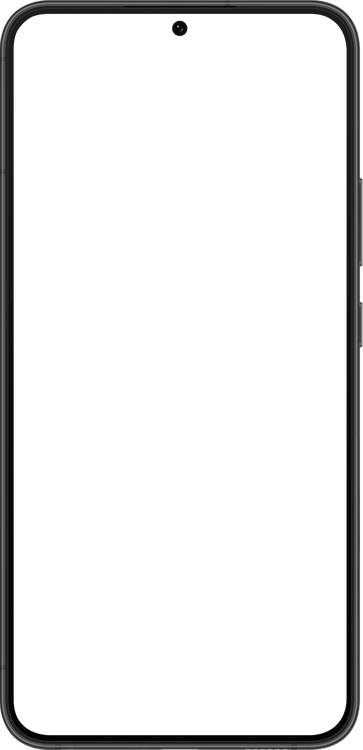
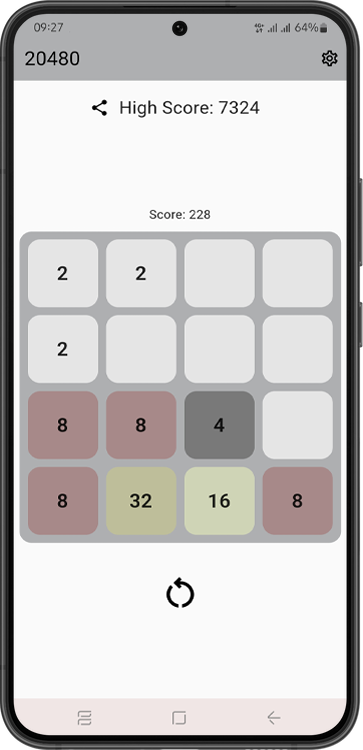
add images and metas

diff --git a/index.html b/index.html
@@ -3,7 +3,54 @@
 		<meta charset="UTF-8" />
 		<meta http-equiv="X-UA-Compatible" content="IE=edge" />
 		<meta name="viewport" content="width=device-width, initial-scale=1.0" />
-		<title>20480</title>
+		<title>Play 20480</title>
+
+		<link rel="canonical" href="https://play20480.rezababakhani.ir" />
+
+		<meta
+			name="description"
+			content="20480 game is a new game based on 2048"
+		/>
+		<meta name="keywords" content="20480,2048,new 2048" />
+
+		<meta property="og:locale" content="en_US" />
+		<meta property="og:site_name" content="play 20480" />
+		<meta property="og:title" content="20480 game" />
+		<meta
+			property="og:description"
+			content="20480 game is a new game based on 2048"
+		/>
+		<meta property="og:url" content="https://play20480.rezababakhani.ir" />
+		<meta name="twitter:site" content="@play20480" />
+		<meta name="twitter:title" content="" />
+		<meta
+			name="twitter:description"
+			content="20480 game is a new game based on 2048"
+		/>
+		<meta name="twitter:image:alt" content="20480 game" />
+		<meta name="DC.title" content="20480 game" />
+		<meta name="DC.subject" content="are played 20480?" />
+		<meta
+			name="DC.description"
+			content=" 20480 game is a new game based on 2048"
+		/>
+		<meta
+			name="DC.identifier"
+			content="https://play20480.rezababakhani.ir"
+		/>
+		<meta name="DC.language" content="fa-IR" />
+
+		<meta
+			property="og:image"
+			content="https://play20480.rezababakhani.ir/images/icon.png"
+		/>
+		<meta property="og:type" content="website" />
+
+		<meta
+			name="twitter:image"
+			content="https://play20480.rezababakhani.ir/images/icon.png"
+		/>
+		<meta name="twitter:card" content="summary" />
 
 		<link
 			href="https://cdn.jsdelivr.net/npm/bootstrap@5.3.0-alpha1/dist/css/bootstrap.min.css"
@@ -18,6 +65,21 @@
 		/>
 
 		<link rel="icon" type="image/x-icon" href="/images/icon.png" />
+
+		<!-- Google tag (gtag.js) -->
+		<script
+			async
+			src="https://www.googletagmanager.com/gtag/js?id=G-ZXFVC1ZRTK"
+		></script>
+		<script>
+			window.dataLayer = window.dataLayer || [];
+			function gtag() {
+				dataLayer.push(arguments);
+			}
+			gtag("js", new Date());
+
+			gtag("config", "G-ZXFVC1ZRTK");
+		</script>
 	</head>
 	<body style="background-color: rgb(227, 232, 236)">
 		<div class="container-fluid">
@@ -28,21 +90,27 @@
 				></div>
 				<div class="col-lg-3 col-md-4 col-sm-6 col-12 text-center pt-4">
 					<img
-						src="images/frame.png"
+						src="images/game.gif"
 						alt="screenshot"
-						style="width: 70%"
+						style="width: 70%; border-radius: 40px"
 					/>
 				</div>
 				<div class="col-lg-3 col-md-4 col-sm-6 col-12 pt-4">
 					<div class="text-center">
 						<h1>Play 20480</h1>
-
-						<a href="https://google.com" class="btn btn-dark mt-3"
+						<h5 class="mt-2 mb-3">
+							20480 game is a new game based on 2048!
+						</h5>
+						<a
+							href="https://github.com/Reza-Babakhani/babakhani_2048/releases/download/v1.0.0/20480.apk"
+							class="btn btn-dark mt-3"
+							target="_blank"
 							><i class="bi-download"></i> Download</a
 						>
 						<br />
 						<a
-							href="https://google.com"
+							href="https://cafebazaar.ir/app/ir.rezababakhani.play20480"
+							target="_blank"
 							class="btn btn-outline-dark mt-3"
 							><i class="bi-basket3-fill"></i> Cafe Bazaar</a
 						>
